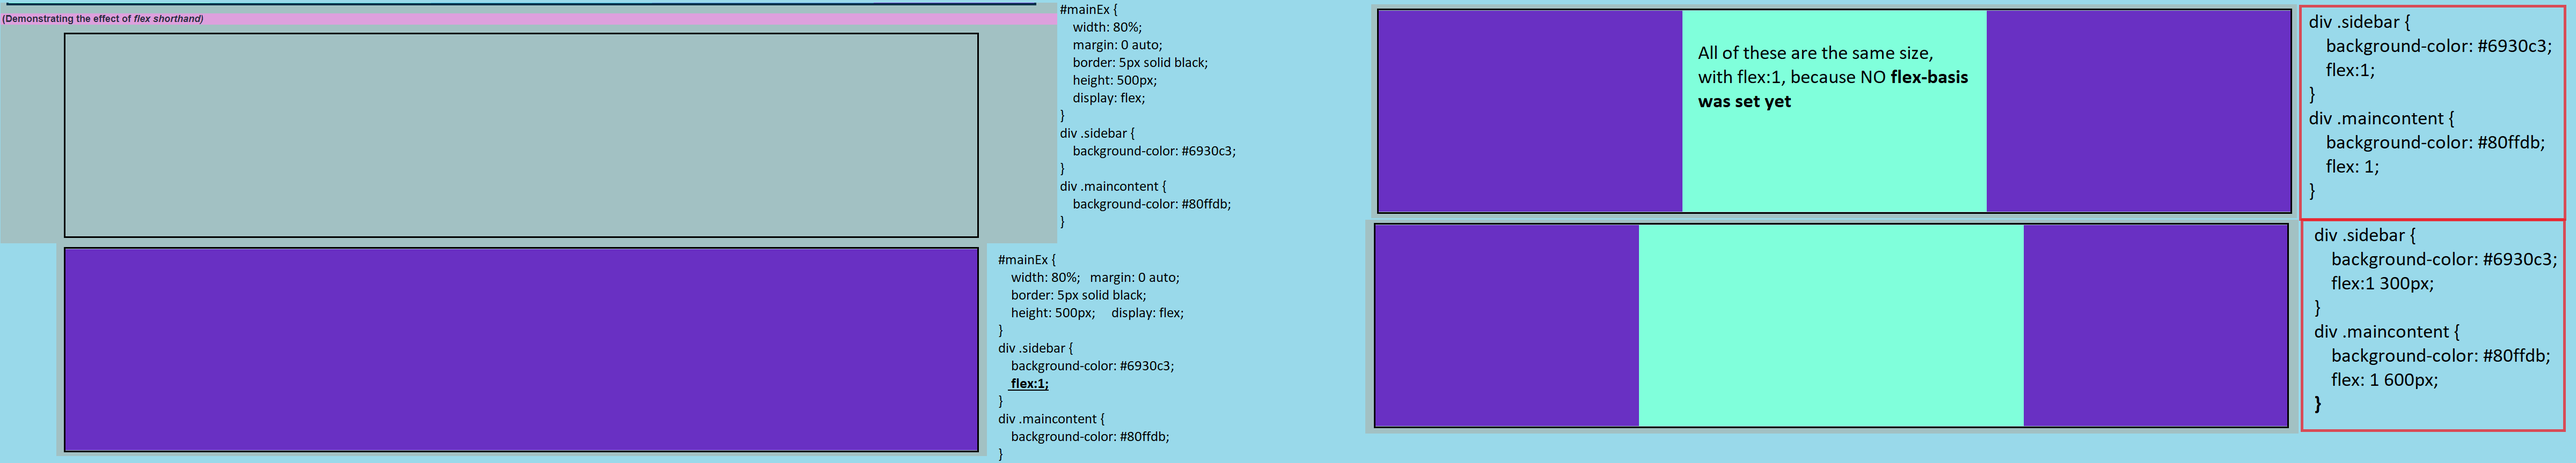
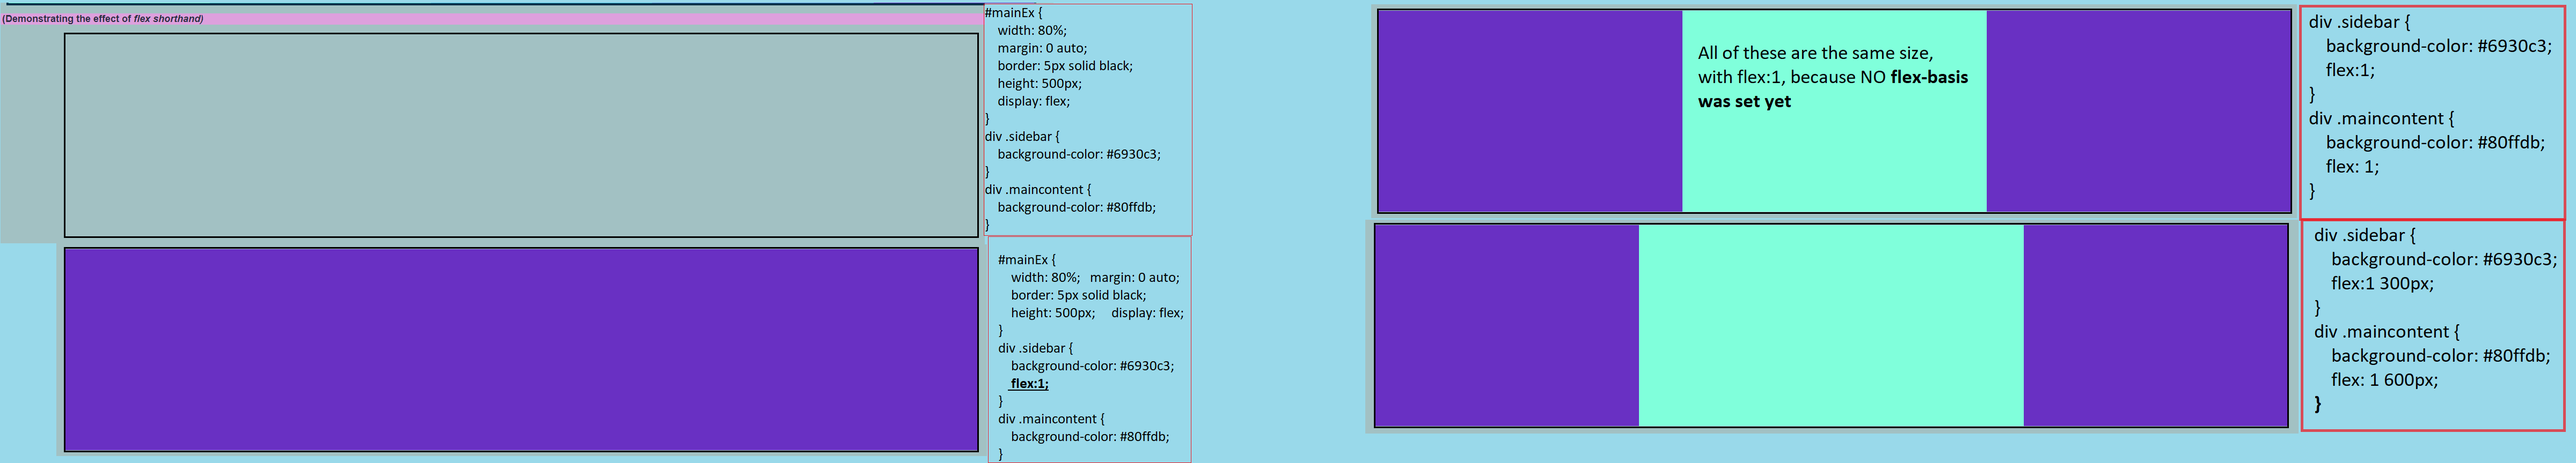
Add Media Queries Intro

Changed region(s): [[0.375, 0.0, 0.5, 0.5312]]

diff --git a/flexboxSection/flexboxPart4.html b/flexboxSection/flexboxPart4.html
@@ -32,22 +32,93 @@
             <div style="background-color: #6930c3"></div>
         </section>
         <h2>Media Queries</h2>
-        <p>All of these properties are used to control the size and behavior of flexbox items. When used with other
-            flexbox properties like <strong>flex-direction</strong>, <strong>align-items</strong> and
-            <strong>justify-content</strong>, these properties can be used to create flexible and responsive layout.
+        <pre>
+            <code>
+                @media only screen and (max-width: 600px) {
+                    /* styles for small screens go here */
+                  }
+                  @media only screen and (min-width: 600px) and (max-width: 900px) {
+                    /* styles for medium screens go here */
+                  }
+                  @media only screen and (min-width: 900px) {
+                    /* styles for large screens go here */
+                  }
+            </code>
+        </pre>
+        <p>A <strong>media query</strong> is CSS is used to apply different styles to a webpage depending on particular
+            parameters, such as screen width or device type. Most commonly are the screen size, but also
+            <strong>portrait vs landscape</strong>, and one of the most common examples is to collapse a nav-bar so that
+            it doesn't take up too much space!
         </p>
+        <pre>
+            <code>
+                @media (max-width:800px){
+                    .sidebar{
+                        display:none;
+                    }
+                    .main{
+                        width:80%;
+                    }
+                }
+
+                @media (min-width:30em) and (orientation:landscape){
+                    #container{
+                        flex-direction:column;
+                        justify-content:center;
+                    }
+                }
+            </code>
+        </pre>
+        <h2>General Advice on Media Queries</h2>
+        <p>To make the website responsive across a range of screens using HTML and CSS provided, you can take the
+            following steps:</p>
+        <ol>
+            <li>
+                Ensure there's a <strong>viewport &lt;meta&gt; tag</strong> in the head of your HTML document. This
+                tells the browser how to
+                adjust
+                the dimensions of the page to fit each device's screen. Each of my pages already included one of these:
+                &lt;meta name="viewport" content="width=device-width, initial-scale=1.0"gt;</li>
+
+            <li>Use CSS <strong>media queries</strong> to apply different styles to different screen sizes.
+                <strong>Media queries</strong> allow you to
+                apply
+                specific CSS styles based on the characteristics of the device, such as its screen size or resolution.
+            </li>
+
+            <li>Use <strong>CSS Flexbox</strong> and <strong>Grid</strong> layout to create flexible and responsive
+                layouts. <strong>Flexbox</strong> and <strong>Grid</strong> make it easy
+                to
+                create layouts that can adapt to different screen sizes and orientations, allowing you to create designs
+                that look good on both small and large screens.</li>
+
+            <li>Use <strong>relative units</strong> for sizes, such as <strong>em, rem, vw, and vh</strong>, instead of
+                absolute units like px . This will
+                allow your website to adjust to different screen sizes.</li>
+
+            <li>Consider using a CSS framework like <strong>Bootstrap</strong> or <strong>Foundation</strong> that
+                already have built-in responsive design
+                features. This can save you time and effort in creating a responsive design from scratch.</li>
+
+            <li>Test your website on different devices and screen sizes, and make any necessary adjustments to the CSS
+                code
+                to ensure that it looks and works as expected.</li>
+
+            <li><strong>Optimize</strong> images to reduce their size, this will help your website load faster on mobile
+                devices.</li>
+        </ol>
     </main>
     <footer>
         <nav>
             <h2>Other Flexbox Links</h2>
             <ul>
                 <li><a href="./introduction.html">Introduction</a></li>
-                <li><a href="./flexboxPart1.html">Flexbox Properties: <strong>display:flex;</strong>,
+                <li><a href="./flexboxPart1.html">Flexbox Properties Part I: <strong>display:flex;</strong>,
                         <strong>flex-direction</strong> and <strong>justify-content</strong></a></li>
                 <li><a href="./flexboxPart2.html">Flexbox Properties Part II: <strong>flex-wrap</strong>,
                         <strong>align-items</strong>,
                         <strong>align-content</strong> and <strong>align-self</strong></a></li>
-                <li><a href="./flexboxPart3.html">Flexbox Properties: <strong>flex-basis</strong>,
+                <li><a href="./flexboxPart3.html">Flexbox Properties Part III: <strong>flex-basis</strong>,
                         <strong>flex-grow</strong>, <strong>flex-shrink</strong> and some <strong>flex
                             shorthand</strong></a></li>
             </ul>

diff --git a/index.html b/index.html
@@ -62,16 +62,19 @@
                 <h3>FlexBox</h3>
                 <ul>
                     <li><a href="./flexboxSection/introduction.html">Introduction To FlexBox</a></li>
-                    <li><a href="./flexboxSection/flexboxPart1.html">Flexbox Properties: <strong>display:flex;</strong>,
+                    <li><a href="./flexboxSection/flexboxPart1.html">Flexbox Properties Part I:
+                            <strong>display:flex;</strong>,
                             <strong>flex-direction</strong> and <strong>justify-content</strong></a></li>
                     <li><a href="./flexboxSection/flexboxPart2.html">Flexbox Properties Part II:
                             <strong>flex-wrap</strong>,
                             <strong>align-items</strong>,
                             <strong>align-content</strong> and <strong>align-self</strong></a></li>
-                    <li><a href="./flexboxSection/flexboxPart3.html">Flexbox Properties: <strong>flex-basis</strong>,
+                    <li><a href="./flexboxSection/flexboxPart3.html">Flexbox Properties Part III:
+                            <strong>flex-basis</strong>,
                             <strong>flex-grow</strong>, <strong>flex-shrink</strong> and some <strong>flex
                                 shorthand</strong></a></li>
-                    <li><a href="./flexboxSection/flexboxPart4.html"><strong>Media queries and building a responsive
+                    <li><a href="./flexboxSection/flexboxPart4.html"><strong>Flexbox Part IV: Media queries and building
+                                a responsive
                                 nav</strong></a>
                     </li>
                 </ul>

diff --git a/flexboxSection/introduction.html b/flexboxSection/introduction.html
@@ -64,14 +64,15 @@
         <nav>
             <h2>Other Flexbox Links</h2>
             <ul>
-                <li><a href="./flexboxPart1.html">Playing With Flexbox</a></li>
+                <li><a href="./flexboxPart1.html">Flexbox Properties Part I: Playing With Flexbox</a></li>
                 <li><a href="./flexboxPart2.html">Flexbox Properties Part II: <strong>flex-wrap</strong>,
                         <strong>align-items</strong>,
                         <strong>align-content</strong> and <strong>align-self</strong></a></li>
-                <li><a href="./flexboxPart3.html">Flexbox Properties: <strong>flex-basis</strong>,
+                <li><a href="./flexboxPart3.html">Flexbox Properties Part III: <strong>flex-basis</strong>,
                         <strong>flex-grow</strong>, <strong>flex-shrink</strong> and some <strong>flex
                             shorthand</strong></a></li>
-                <li><a href="./flexboxPart4.html"><strong>Media queries and building a responsive nav</strong></a></li>
+                <li><a href="./flexboxPart4.html"><strong>Flexbox Part IV: Media queries and building a responsive
+                            nav</strong></a></li>
             </ul>
         </nav>
         <a href="../index.html">Home</a>

diff --git a/flexboxSection/flexboxPart2.html b/flexboxSection/flexboxPart2.html
@@ -407,12 +407,13 @@
             <h2>Other Flexbox Links</h2>
             <ul>
                 <li><a href="./introduction.html">Introduction</a></li>
-                <li><a href="./flexboxPart1.html">Flexbox Properties: <strong>display:flex;</strong>,
+                <li><a href="./flexboxPart1.html">Flexbox Properties Part I: <strong>display:flex;</strong>,
                         <strong>flex-direction</strong> and <strong>justify-content</strong></a></li>
-                <li><a href="./flexboxPart3.html">Flexbox Properties: <strong>flex-basis</strong>,
+                <li><a href="./flexboxPart3.html">Flexbox Properties Part III: <strong>flex-basis</strong>,
                         <strong>flex-grow</strong>, <strong>flex-shrink</strong> and some <strong>flex
                             shorthand</strong></a></li>
-                <li><a href="./flexboxPart4.html"><strong>Media queries and building a responsive nav</strong></a></li>
+                <li><a href="./flexboxPart4.html"><strong>Flexbox Part IV: Media queries and building a responsive
+                            nav</strong></a></li>
             </ul>
         </nav>
         <a href="../index.html">Home</a>

diff --git a/resources/flexboxIntro.css b/resources/flexboxIntro.css
@@ -42,12 +42,11 @@ h2 {
 #container {
     background-color: #003049;
     width: 90%;
-    /*height: 500px;*/
+    height: 500px;
     margin: 0 auto;
     border: 5px solid #003049;
     display: flex;
     flex-direction: row;
-    /*KEY CHANGE*/
     justify-content: center;
     flex-wrap: wrap;
 }
@@ -55,14 +54,6 @@ h2 {
 #container div {
     width: 200px;
     height: 200px;
-}
-
-div:nth-of-type(1) {
-    flex-grow: 1;
-}
-
-div:nth-of-type(5) {
-    flex-grow: 2;
 }
 
 img {
@@ -79,7 +70,6 @@ main {
     color: #610000;
 }
 
-/*
 #mainEx {
     width: 80%;
     margin: 0 auto;
@@ -90,12 +80,13 @@ main {
 
 div .sidebar {
     background-color: #6930c3;
+    flex: 1 2 600px;
 }
 
 div .maincontent {
     background-color: #80ffdb;
+    flex: 1 2 300px;
 }
-*/
 
 /*Used on codepen.io to check images incorporate okay
                     <img src="https://images.unsplash.com/photo-1666315209049-91e938e33c62?ixlib=rb-4.0.3&ixid=MnwxMjA3fDB8MHxwaG90by1wYWdlfHx8fGVufDB8fHx8&auto=format&fit=crop&w=2232&q=80" alt="flex-direction:row-reverse">

diff --git a/flexboxSection/flexboxPart1.html b/flexboxSection/flexboxPart1.html
@@ -293,10 +293,11 @@
                 <li><a href="./flexboxPart2.html">Flexbox Properties Part II: <strong>flex-wrap</strong>,
                         <strong>align-items</strong>,
                         <strong>align-content</strong> and <strong>align-self</strong></a></li>
-                <li><a href="./flexboxPart3.html">Flexbox Properties: <strong>flex-basis</strong>,
+                <li><a href="./flexboxPart3.html">Flexbox Properties Part III: <strong>flex-basis</strong>,
                         <strong>flex-grow</strong>, <strong>flex-shrink</strong> and some <strong>flex
                             shorthand</strong></a></li>
-                <li><a href="./flexboxPart4.html"><strong>Media queries and building a responsive nav</strong></a></li>
+                <li><a href="./flexboxPart4.html"><strong>Flexbox Part IV: Media queries and building a responsive
+                            nav</strong></a></li>
             </ul>
         </nav>
         <a href="../index.html">Home</a>
